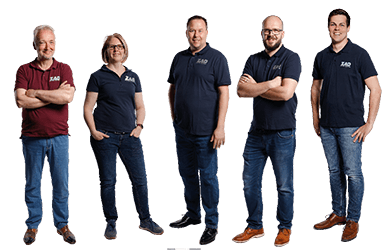
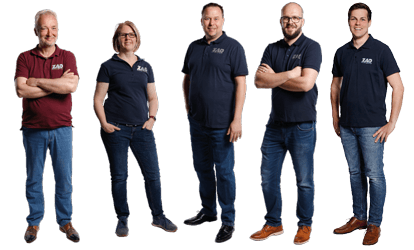
Autorenkorrekturen

diff --git a/components/button.js b/components/button.js
@@ -1,42 +1,94 @@
-function Button({ href, children, className, bgColor, onClickHandler }) {
+import Link from "next/link";
+
+function Button({ href, children, className = "", bgColor, onClickHandler }) {
   return (
-    <a
-      className={`btn-fx-1 ${className}`}
-      href={href}
-      target="_blank"
-      rel="noopener noreferrer"
-      onClick={onClickHandler}
-    >
-      <div
-        className={`btn-fx-1__inner bp3-padding-y-xs bp3-padding-x-sm ${bgColor}`}
-      >
-        <span>{children}</span>
+    <>
+      {href != undefined ? (
+        <Link href={href}>
+          <a
+            className={`btn-fx-1 ${className}`}
+            // target="_blank"
+            // rel="noopener noreferrer"
+            onClick={onClickHandler}
+            href={href}
+          >
+            <div
+              className={`btn-fx-1__inner bp3-padding-y-xs bp3-padding-x-sm ${bgColor}`}
+            >
+              <span>{children}</span>
 
-        <div className="btn-fx-1__icon-wrapper" aria-hidden="true">
-          <svg className="bp3-icon bp3-margin-left-2xs" viewBox="0 0 20 20">
-            <polyline
-              points="8 5 13 10 8 15"
-              fill="none"
-              stroke="currentColor"
-              strokeLinecap="round"
-              strokeLinejoin="round"
-              strokeWidth="2"
-            />
-          </svg>
+              <div className="btn-fx-1__icon-wrapper" aria-hidden="true">
+                <svg
+                  className="bp3-icon bp3-margin-left-2xs"
+                  viewBox="0 0 20 20"
+                >
+                  <polyline
+                    points="8 5 13 10 8 15"
+                    fill="none"
+                    stroke="currentColor"
+                    strokeLinecap="round"
+                    strokeLinejoin="round"
+                    strokeWidth="2"
+                  />
+                </svg>
 
-          <svg className="bp3-icon bp3-margin-left-2xs" viewBox="0 0 20 20">
-            <polyline
-              points="8 5 13 10 8 15"
-              fill="none"
-              stroke="currentColor"
-              strokeLinecap="round"
-              strokeLinejoin="round"
-              strokeWidth="2"
-            />
-          </svg>
-        </div>
-      </div>
-    </a>
+                <svg
+                  className="bp3-icon bp3-margin-left-2xs"
+                  viewBox="0 0 20 20"
+                >
+                  <polyline
+                    points="8 5 13 10 8 15"
+                    fill="none"
+                    stroke="currentColor"
+                    strokeLinecap="round"
+                    strokeLinejoin="round"
+                    strokeWidth="2"
+                  />
+                </svg>
+              </div>
+            </div>
+          </a>
+        </Link>
+      ) : (
+        <a
+          className={`btn-fx-1 ${className}`}
+          // target="_blank"
+          // rel="noopener noreferrer"
+          onClick={onClickHandler}
+          href={href}
+        >
+          <div
+            className={`btn-fx-1__inner bp3-padding-y-xs bp3-padding-x-sm ${bgColor}`}
+          >
+            <span>{children} 2</span>
+
+            <div className="btn-fx-1__icon-wrapper" aria-hidden="true">
+              <svg className="bp3-icon bp3-margin-left-2xs" viewBox="0 0 20 20">
+                <polyline
+                  points="8 5 13 10 8 15"
+                  fill="none"
+                  stroke="currentColor"
+                  strokeLinecap="round"
+                  strokeLinejoin="round"
+                  strokeWidth="2"
+                />
+              </svg>
+
+              <svg className="bp3-icon bp3-margin-left-2xs" viewBox="0 0 20 20">
+                <polyline
+                  points="8 5 13 10 8 15"
+                  fill="none"
+                  stroke="currentColor"
+                  strokeLinecap="round"
+                  strokeLinejoin="round"
+                  strokeWidth="2"
+                />
+              </svg>
+            </div>
+          </div>
+        </a>
+      )}
+    </>
   );
 }
 

diff --git a/pages/unternehmen.js b/pages/unternehmen.js
@@ -44,7 +44,7 @@ function Unternehmen() {
           begeistern: Ihr Erfolgt ist unser Erfolg.
         </p>
         <p className="mb-4 font-bold">Unsere Grundsätze:</p>
-        <ul className="text-zad-blue-600 list-disc list-outside">
+        <ul className="text-zad-blue-600 list-disc list-inside">
           <li>
             Kompetenz zahlt sich aus. Deshalb legen wir größten Wert auf unsere
             Qualifikation und werden dabei von der Unternehmensleitung
@@ -235,12 +235,12 @@ function Unternehmen() {
         </div>
       </div>
       <div className="text-center mx-auto px-12 lg:px-0">
-        <h2 className="text-center mb-8">Pfelgeabrechnung</h2>
+        <h2 className="text-center mb-8">Pflegeabrechnung</h2>
         <Image
           src={"/images/unternehmen/team_pflegeabrechnung.png"}
           alt="Team Pflegeabrechnung"
-          width={1200}
-          height={256}
+          width={1248}
+          height={250}
         />
       </div>
       <div className="text-center mx-auto mt-24  px-12 lg:px-0">
@@ -248,18 +248,20 @@ function Unternehmen() {
         <Image
           src={"/images/unternehmen/team_krankentransport.png"}
           alt="Team Pflegeabrechnung"
-          width={877}
-          height={259}
+          width={1099}
+          height={250}
         />
       </div>
       <div className="flex flex-row px-[15%]">
         <div className="text-center mx-auto mt-24">
-          <h2 className="text-center mb-8">Administratoren</h2>
+          <h2 className="text-center mb-8">
+            Administration und IT-Entwicklung
+          </h2>
           <Image
             src={"/images/unternehmen/team_admin.png"}
             alt="Team Pflegeabrechnung"
-            width={415}
-            height={249}
+            width={173}
+            height={251}
           />
         </div>
         <div className="text-center mx-auto mt-24">
@@ -267,7 +269,7 @@ function Unternehmen() {
           <Image
             src={"/images/unternehmen/team_vertrieb.png"}
             alt="Team Pflegeabrechnung"
-            width={392}
+            width={414}
             height={250}
           />
         </div>

diff --git a/pages/index.js b/pages/index.js
@@ -84,8 +84,8 @@ export default function Home() {
               Software für <br /> Krankentransporte
             </span>
             <span className="border-t border-zad-blue-200 pt-3 px-3">
-              Optimierte Planung- und Verwaltung für Rettungs- dienste und
-              Beförderungs- unternehmen. In Koopera- tion mit ZADtolls wurde die
+              Optimierte Planung und Verwaltung für Rettungsdienste und
+              Beförderungsunternehmen. In Kooperation mit ZADtolls wurde die
               Software „Dispolive“ für Krankentransporte entwickelte.
             </span>
             <img
@@ -127,9 +127,8 @@ export default function Home() {
               Software für <br /> Pflegedienste
             </span>
             <span className="border-t border-zad-blue-200 pt-3 px-3">
-              Mit der Gründung des Unternehmens „Click On Live“ wurde eine neue
-              Software für den ambulanten Pflege- dienst entwickelt. (hier noch
-              ein Vorteil)
+              Mit der Gründung des Unternehmens wurde eine neue Software für den
+              ambulanten Pflege- dienst entwickelt. (hier noch ein Vorteil)
             </span>
             <img
               className="pt-8 w-3/4 self-center"
@@ -179,11 +178,9 @@ export default function Home() {
         <h2 className="text-white mb-0 text-xl xl:text-2xl">
           Sie möchten mehr über den ZAD erfahren? Wir informieren Sie gerne.
         </h2>
-        <Link href="/kontakt" passHref>
-          <Button className="px-8" bgColor="bg-zad-blue-200">
-            Zur Kontaktseite
-          </Button>
-        </Link>
+        <Button href="/kontakt" className="px-8" bgColor="bg-zad-blue-200">
+          Zur Kontaktseite
+        </Button>
       </div>
       <Footer />
     </div>

diff --git a/pages/leistungen.js b/pages/leistungen.js
@@ -63,8 +63,8 @@ function Leistungen() {
               Software für <br /> Krankentransporte
             </span>
             <span className="border-t border-zad-blue-200 pt-4 px-3">
-              Optimierte Planung- und Verwaltung für Rettungs- dienste und
-              Beförderungs- unternehmen. In Koopera- tion mit ZADtolls wurde die
+              Optimierte Planung und Verwaltung für Rettungsdienste und
+              Beförderungsunternehmen. In Kooperation mit ZADtolls wurde die
               Software „Dispolive“ für Krankentransporte entwickelte.
             </span>
             <img
@@ -103,9 +103,8 @@ function Leistungen() {
               Software für <br /> Pflegedienste
             </span>
             <span className="border-t border-zad-blue-200 pt-4 px-3">
-              Mit der Gründung des Unternehmens „Click On Live“ wurde eine neue
-              Software für den ambulanten Pflege- dienst entwickelt. (hier noch
-              ein Vorteil)
+              Mit der Gründung des Unternehmens wurde eine neue Software für den
+              ambulanten Pflege- dienst entwickelt. (hier noch ein Vorteil)
             </span>
             <img
               className="pt-8 w-3/4 self-center"

diff --git a/pages/software-krankentransporte.js b/pages/software-krankentransporte.js
@@ -133,10 +133,6 @@ function Software() {
               unabhängig von ZAD vollständig nutzbar. Sie müssen kein ZAD-Kunde
               sein, um Ihre Leistungen über dispolive abzurechnen.{" "}
             </p>
-            <p>
-              Möchten Sie dispolive testen? Sprechen Sie uns an. Wir stellen
-              Ihnen gern ein kostenfreies Testgerät zur Verfügung
-            </p>
           </div>
           <div className="flex flex-col my-10 w-full items-stretch justify-items-stretch px-20 space-y-6">
             <img
@@ -144,11 +140,9 @@ function Software() {
               src="images/dispo.svg"
               alt="disolive Logo"
             />
-            <Link href="/kontakt" passHref>
-              <Button>
-                Direkt zur webbasierten Software für den Krankentransport
-              </Button>
-            </Link>
+            <Button href="https://www.zadtools.de">
+              Direkt zur webbasierten Software für den Krankentransport
+            </Button>
           </div>
         </div>
       </div>

diff --git a/pages/krankentransporte.js b/pages/krankentransporte.js
@@ -53,12 +53,12 @@ function Krankentransporte() {
             im Blätterwald, alles ganz einfach per Mausklick.
           </p>
           <div className="flex flex-col lg:flex-row lg:space-x-10 space-y-8 lg:space-y-0 my-10 w-full items-stretch justify-items-stretch">
-            <Link href="/kontakt" passHref>
-              <Button>Jetzt Anfrage senden</Button>
-            </Link>
-            <Link href="/team" passHref>
-              <Button>Ansprechpartner finden</Button>
-            </Link>
+            <Button href="/kontakt" passHref>
+              Jetzt Anfrage senden
+            </Button>
+            <Button href="/team" passHref>
+              Ansprechpartner finden
+            </Button>
           </div>
         </div>
         <div className="flex-col w-full max-w-xs gap-8 hidden xl:flex min-w-[14rem]">

diff --git a/pages/pflegedienste.js b/pages/pflegedienste.js
@@ -46,12 +46,8 @@ function Pflegedienste() {
             klar strukturiert für Sie „gezähmt“.
           </p>
           <div className="flex space-x-10 my-10 w-full items-stretch justify-items-stretch">
-            <Link href="/kontakt" passHref>
-              <Button>Jetzt Anfrage senden</Button>
-            </Link>
-            <Link href="/team" passHref>
-              <Button>Ansprechpartner finden</Button>
-            </Link>
+            <Button href="/kontakt">Jetzt Anfrage senden</Button>
+            <Button href="/team">Ansprechpartner finden</Button>
           </div>
         </div>
         <div className="flex-col w-full max-w-xs gap-8 hidden xl:flex min-w-[14rem]">

diff --git a/pages/software-pflegedienste.js b/pages/software-pflegedienste.js
@@ -74,9 +74,9 @@ function Software() {
               src="images/pflegesuite.png"
               alt="Pflegesuite Logo"
             />
-            <Link href="https://promo.pflegesuite.de/" passHref>
-              <Button>Direkt zur webbasierten Pflegesoftware</Button>
-            </Link>
+            <Button href="https://promo.pflegesuite.de/">
+              Direkt zur webbasierten Pflegesoftware
+            </Button>
           </div>
         </div>
         <div className="flex-col w-full max-w-xs gap-8 hidden xl:flex min-w-[14rem]">

diff --git a/components/teamData.js b/components/teamData.js
@@ -123,8 +123,8 @@ const teamData = {
       imageHover: "knauer",
     },
     {
-      name: "Maria Lasota,",
-      title: "Stellv. Teamleitung",
+      name: "Maria Lasota",
+      title: "Stellv. Teamleitung 22",
       phone: "05551 / 96 88-0",
       fax: "05551 / 96 88-88",
       email: "maria.lasota@zad-northeim.de",
